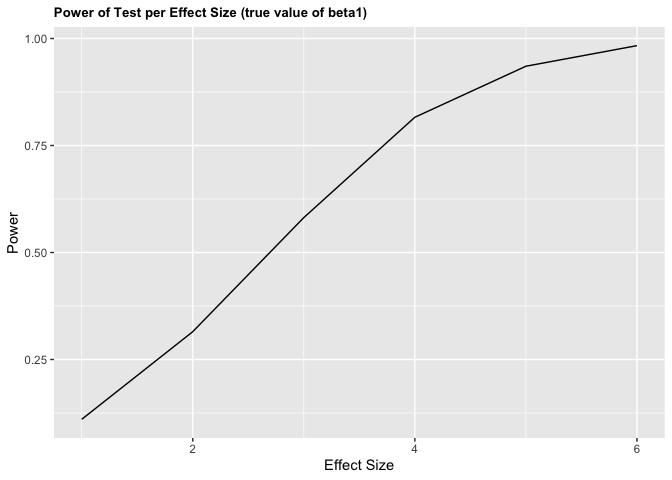
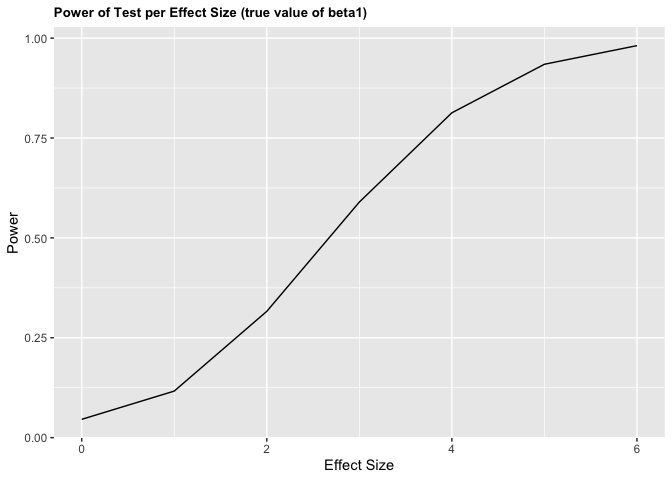
Mad a plot showing the average estimate of β̂ 1 on the y axis and the true value of β1 on the x axis. Made a second plot (or overlay on the first) the average estimate of β̂ 1 only in samples for which the null was rejected on the y axis and the true value of β1 on the x axis. I
Also, Added 0 to vector in tibble as per "Set β1=0" in directions.

diff --git a/p8105_hw5_amh2325.md b/p8105_hw5_amh2325.md
@@ -153,7 +153,7 @@ Repeat the above for β1={1,2,3,4,5,6}
 
 ``` r
 sim_results = 
-  tibble(beta1_new = c(1, 2, 3, 4, 5, 6)) %>% 
+  tibble(beta1_new = c(0, 1, 2, 3, 4, 5, 6)) %>% 
   mutate(output_list = map(.x = beta1_new, ~rerun(10000, sim_regression(beta1 = .x))),
   estimate_df = map(output_list, bind_rows))%>%
   select(-output_list)%>% 
@@ -187,3 +187,39 @@ sim_results %>%
     ## This warning is displayed once per session.
 
 ![](p8105_hw5_amh2325_files/figure-gfm/unnamed-chunk-8-1.png)<!-- -->
+\#\# Describe the association between effect size and power.
+
+We can see above that as the effect size increases, power also
+increases.
+
+``` r
+plot1 = sim_results %>% 
+  group_by(beta1_new) %>% 
+  summarise(mean_beta_hat = mean(beta1_hat)) %>% 
+    ggplot(aes(x = beta1_new, y = mean_beta_hat)) + geom_point() +geom_line() +
+  
+  labs(title = "Average Beta1_hat values Across True Values of Beta1", 
+           x = "True Values of Beta1",
+           y = "Average Values of Beta1_hat") +
+  theme(plot.title = element_text(size = 10, face = "bold"))
+plot1
+```
+
+![](p8105_hw5_amh2325_files/figure-gfm/unnamed-chunk-9-1.png)<!-- -->
+
+``` r
+plot2 = sim_results %>% 
+  mutate(null_rejected = ifelse(p_value < 0.05, "reject", "fail to reject")) %>% 
+  group_by(beta1_new, null_rejected) %>% 
+  filter(null_rejected == "reject") %>%
+  summarise(mean_beta_hat = mean(beta1_hat)) %>% 
+    ggplot(aes(x = beta1_new, y = mean_beta_hat)) + geom_point() +geom_line() +
+  
+  labs(title = "Average Beta1_hat values Across True Values of Beta1, when the Null is Rejected (p-value < 0.05)", 
+           x = "True Values of Beta1",
+           y = "Average Values of Beta1_hat") +
+  theme(plot.title = element_text(size = 10, face = "bold"))
+plot2
+```
+
+![](p8105_hw5_amh2325_files/figure-gfm/unnamed-chunk-9-2.png)<!-- -->
